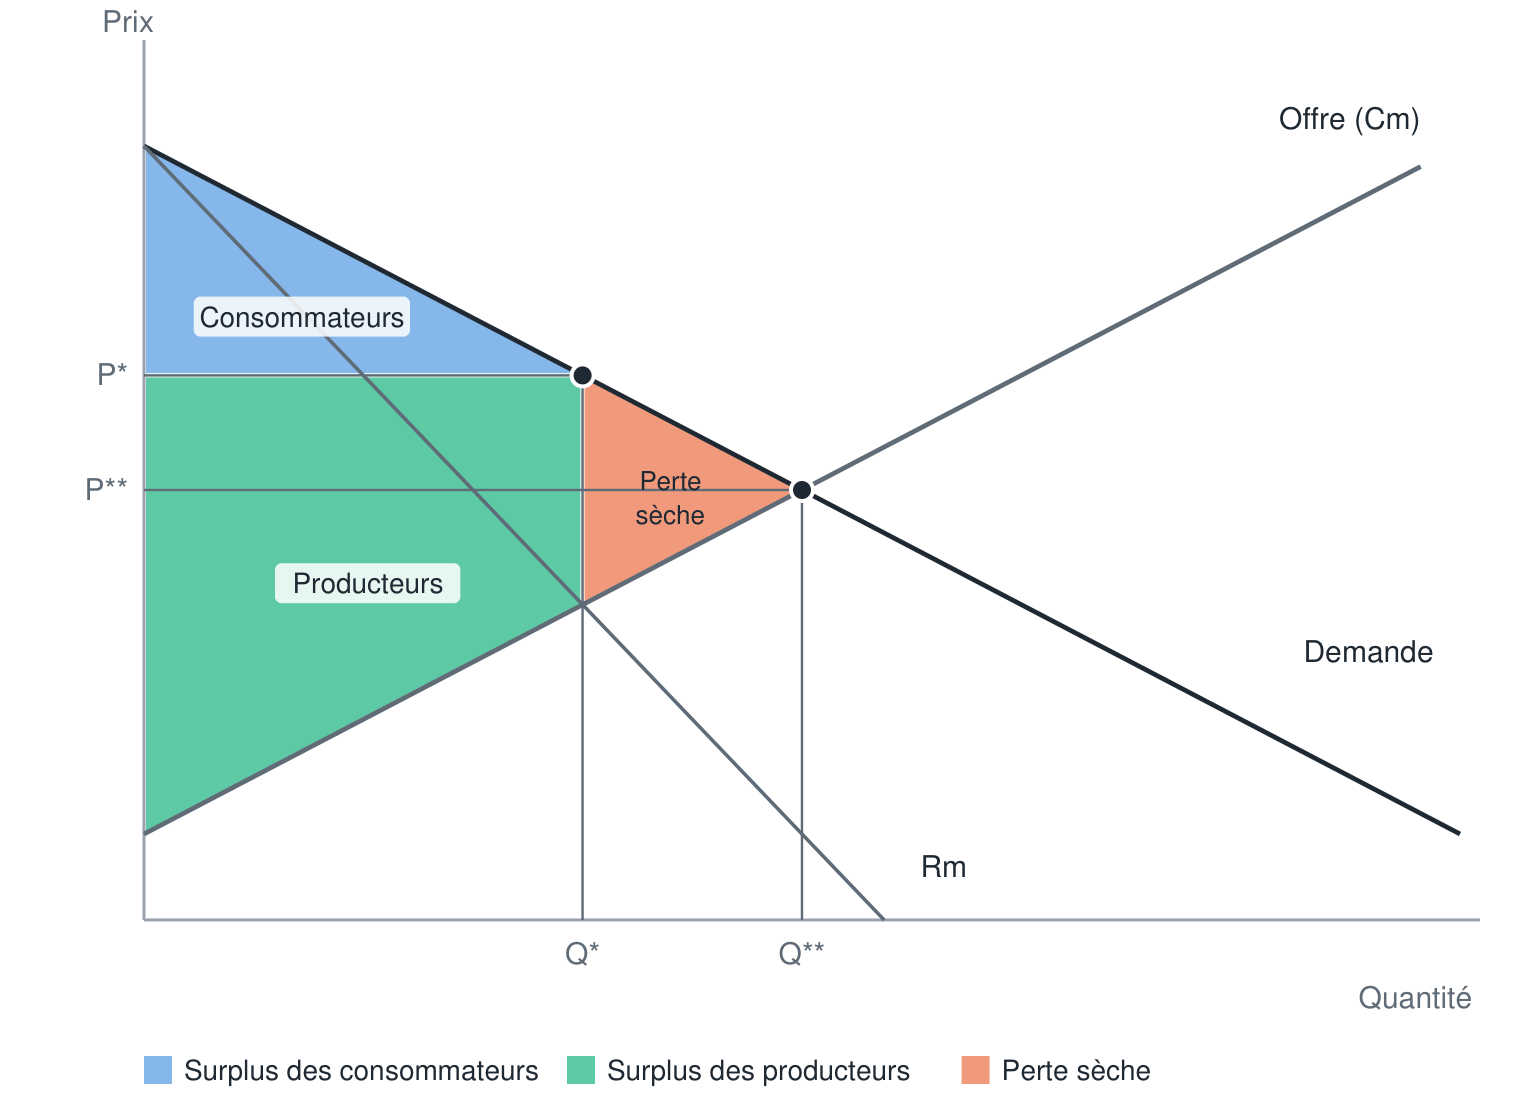
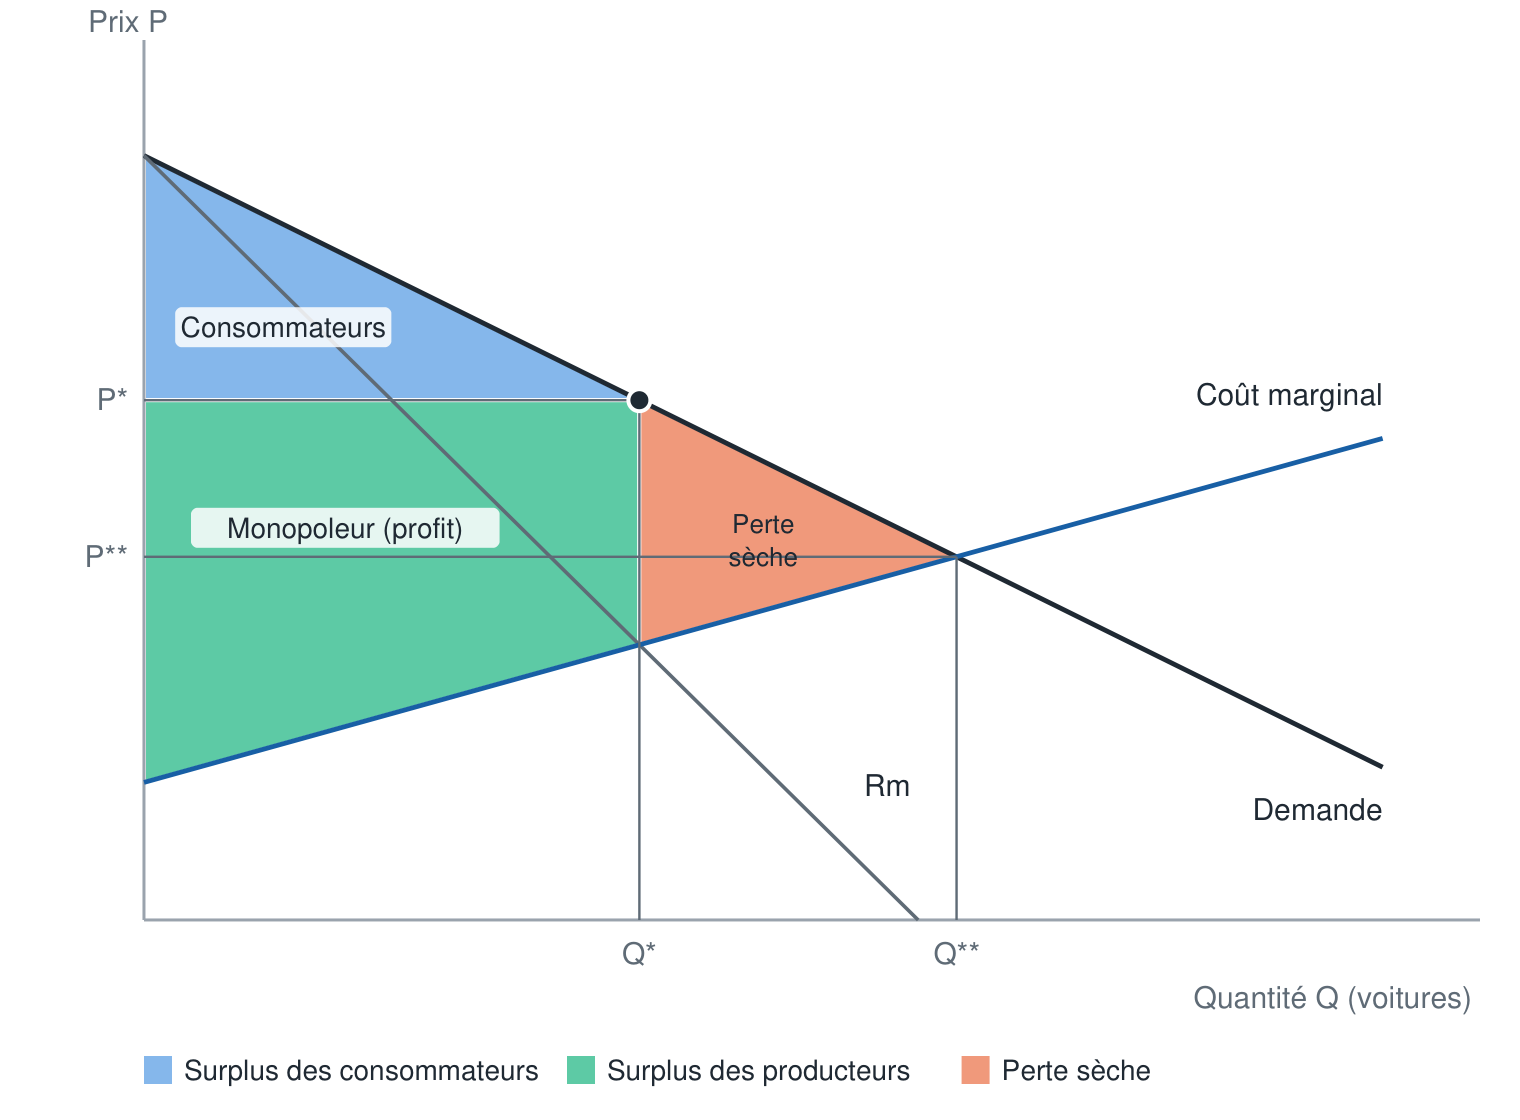
Add zoned charts to micro chapter 2 (demand, marginal revenue, costs, monopoly optimum, elasticity)

diff --git a/micro-notes/chapitre2-monopole/Chp 2-cours.md b/micro-notes/chapitre2-monopole/Chp 2-cours.md
@@ -153,6 +153,12 @@ $$\text{surplus} = \text{PAP} - \text{prix payé}$$
 
 Exemple : avec un prix de 3 000 €, Madame X (PAP 8 000 €) a un surplus de 5 000 € ; Monsieur X (PAP 6 000 €) a un surplus de 3 000 € ; le surplus des consommateurs est la somme : 8 000 €.
 
+![Demande d'un seul client et son surplus à 3 000 €](images/demande-un-client.png)
+
+![Demande en escalier de deux clients et leur surplus à 3 000 €](images/demande-deux-clients.png)
+
+![Demande linéaire et surplus des consommateurs à 3 200 €](images/demande-lineaire-surplus.png)
+
 Quelqu'un qui n'achète pas a un surplus nul (sinon son surplus serait négatif). Sur le graphique, le surplus de l'ensemble des consommateurs est l'aire comprise entre la courbe de demande et le prix ; avec une demande courbe plutôt que droite, on le calcule avec une intégrale.
 
 ### 2.5 Un exemple d'estimation de la demande : l'électrification d'un pays
@@ -256,6 +262,8 @@ Intuition : la vente d'une unité supplémentaire rapporte son prix (effet quant
 
 Décomposition : effet quantité = $6\,320$ € (prix de la 21e voiture) ; effet prix = $-80 \times 20 = -1\,600$ € (baisse de 80 € sur les 20 voitures déjà vendues). Donc $Rm = 6\,320 - 1\,600 = 4\,720$ €.
 
+![Effet quantité et effet prix d'une unité supplémentaire (schéma agrandi)](images/recette-marginale-effets.png)
+
 On peut calculer la recette marginale comme $\dfrac{\Delta RT}{\Delta Q}$ (variation de 1 unité) ; avec une variation infinitésimale, c'est la dérivée. Pour l'intuition, on travaille souvent avec « +1 unité » ; la justesse mathématique demande des quantités continues que l'on peut dériver.
 
 ### 3.4 Propriétés de la recette marginale
@@ -302,6 +310,8 @@ Vérifications avec le raisonnement graphique :
 - $Rm$ est décroissante ;
 - $Rm(0) = \dfrac{\alpha}{\beta} = P(0)$ : les deux courbes partent du même point ;
 - la pente de la demande inverse est $-\dfrac{1}{\beta}$ et celle de la recette marginale est $-\dfrac{2}{\beta}$ : la **recette marginale est deux fois plus pentue** que la demande inverse, d'où un écart qui grandit avec $Q$.
+
+![Demande et recette marginale deux fois plus pentue](images/demande-recette-marginale.png)
 
 Les paramètres peuvent être renommés ($a = \alpha/\beta$, $b = 1/\beta$) sans changer le raisonnement.
 
@@ -389,6 +399,8 @@ CM  → pente de la droite qui va de l'origine au point considéré
 
 Analogie : votre moyenne de notes. Si vos premières notes sont inférieures à votre moyenne, chaque nouvelle note la fait baisser ; elle cesse de baisser quand la note nouvelle est égale à la moyenne, puis elle remonte si les notes suivantes sont meilleures. La note nouvelle joue le rôle du coût marginal, la moyenne celui du coût moyen. Même chose pour la vitesse moyenne d'un trajet après un redémarrage : tant que votre vitesse instantanée est inférieure à la moyenne, la moyenne baisse ; elle remonte quand vous la dépassez.
 
+![Coût moyen en U et coût marginal pour CT = 120 + 2Q²](images/cout-moyen-cout-marginal.png)
+
 **La courbe de coût moyen en U**
 
 En général, la courbe de coût moyen a une forme de **U** :
@@ -423,6 +435,8 @@ C'est ce qu'une unité rapporte en moyenne ; on l'appelle la **marge** de l'entr
 $$CT(Q) - CF = \int_0^Q Cm(x)\,dx$$
 
 C'est l'aire sous la courbe de coût marginal entre 0 et $Q$ (on y ajoute le coût fixe pour obtenir le coût total). De même, la recette totale est l'aire sous la courbe de recette marginale. Le profit s'obtient donc, en première lecture, comme l'aire comprise entre la courbe de recette marginale et celle de coût marginal.
+
+![Coût total et profit lus sous la courbe de coût marginal](images/cout-marginal-cout-total-profit.png)
 
 **Bénéfice marginal** : pour une unité supplémentaire, ce qu'elle rapporte est la recette marginale et ce qu'elle coûte est le coût marginal ; la différence $Rm - Cm$ est le bénéfice marginal. C'est la distance verticale entre les deux courbes. Elle est la plus grande sur les premières unités (coût marginal très bas), puis diminue.
 
@@ -463,6 +477,8 @@ La démarche se fait en deux temps sur le graphique :
 2. on remonte verticalement jusqu'à la **courbe de demande** pour lire le **prix optimal** $P^* = P(Q^*)$. Le prix se lit sur la demande (ce que les consommateurs acceptent de payer pour $Q^*$), pas sur la courbe de recette marginale.
 
 Dans l'exemple de la demande $P(Q) = 8\,000 - 80\,Q$ (20 voitures à 6 400 €, 21 voitures à 6 320 €), le prix optimal est $P^* = 5\,440$ €, ce qui correspond à $Q^* = 32$ voitures.
+
+![Optimum du monopole : Rm = Cm, prix lu sur la demande](images/monopole-optimum.png)
 
 Comme $Rm < P$ pour $Q > 0$ (voir 3.4) et que $Rm = Cm$ à l'optimum, le **prix du monopole est supérieur au coût marginal** : le monopole réalise un profit par unité positif. Il ne peut capter davantage du surplus des consommateurs que s'il peut discriminer par les prix (voir 2.6).
 
@@ -508,6 +524,8 @@ L'optimum social $(Q^{**}, P^{**})$ est donc à l'**intersection de la demande i
 Monopole       : Rm = Cm               → Q*,  P*
 Optimum social : demande inverse = Cm  → Q** > Q*,  P** < P*
 ```
+
+![Optimum social à l'intersection de la demande et du coût marginal](images/optimum-social.png)
 
 #### La perte sèche
 
@@ -557,6 +575,10 @@ L'élasticité décide de l'écart entre la courbe de demande et la courbe de re
 
 À retenir : le monopole peut monter son prix quand la demande est peu sensible au prix ; quand la demande est très sensible, il ne le peut pas.
 
+![Demande très élastique : pas de pouvoir de marché](images/elasticite-forte.png)
+
+![Demande peu élastique : fort pouvoir de marché](images/elasticite-faible.png)
+
 ### 6.3 Élasticité et recette marginale
 
 En notant $\varepsilon$ l'élasticité-prix (négative), la recette marginale s'écrit :
@@ -586,6 +608,8 @@ Si le monopole pouvait vendre chaque unité **au prix que chaque client est prê
 
 C'est efficace mais pas équitable (voir 5.4). En pratique, c'est rare : il faudrait connaître la PAP de chaque client et empêcher la revente. Exemples approchants : marchandage (le tapis), ventes aux enchères, voitures d'occasion.
 
+![Discrimination parfaite : tout le surplus va au producteur](images/discrimination-parfaite.png)
+
 **Discrimination par groupes** : les compagnies aériennes font payer plus cher les voyageurs de dernière minute (souvent des professionnels, à la demande peu élastique). Elles transfèrent ainsi du surplus des consommateurs vers le producteur.
 
 **Donner plus de pouvoir aux clients** : si les acheteurs pouvaient faire jouer la concurrence (enchères inversées, plusieurs vendeurs, prix proposé par l'acheteur), le prix se rapprocherait du coût marginal et la quantité vendue de l'optimum social.
@@ -605,6 +629,8 @@ Avec un coût unitaire constant $c$, le profit à une quantité $Q$ est $(P(Q) -
 
 - **Coût unitaire constant, sans coût fixe** ($CT = 2Q$) : le coût total est une droite passant par l'origine ; $CM = Cm = 2$, deux droites horizontales confondues.
 - **Coût marginal constant avec coût fixe** ($CT = CF + 2Q$) : le coût total est une droite d'ordonnée à l'origine $CF$ ; $Cm = 2$ (horizontale) ; $CM = CF/Q + 2$, décroissant et tendant vers 2, toujours au-dessus du coût marginal.
+
+![Coût marginal constant et coût moyen avec coût fixe](images/td2-cout-fixe.png)
 
 ### 7.3 Hypermarché et petits commerçants : bien raisonner sur l'élasticité
 
